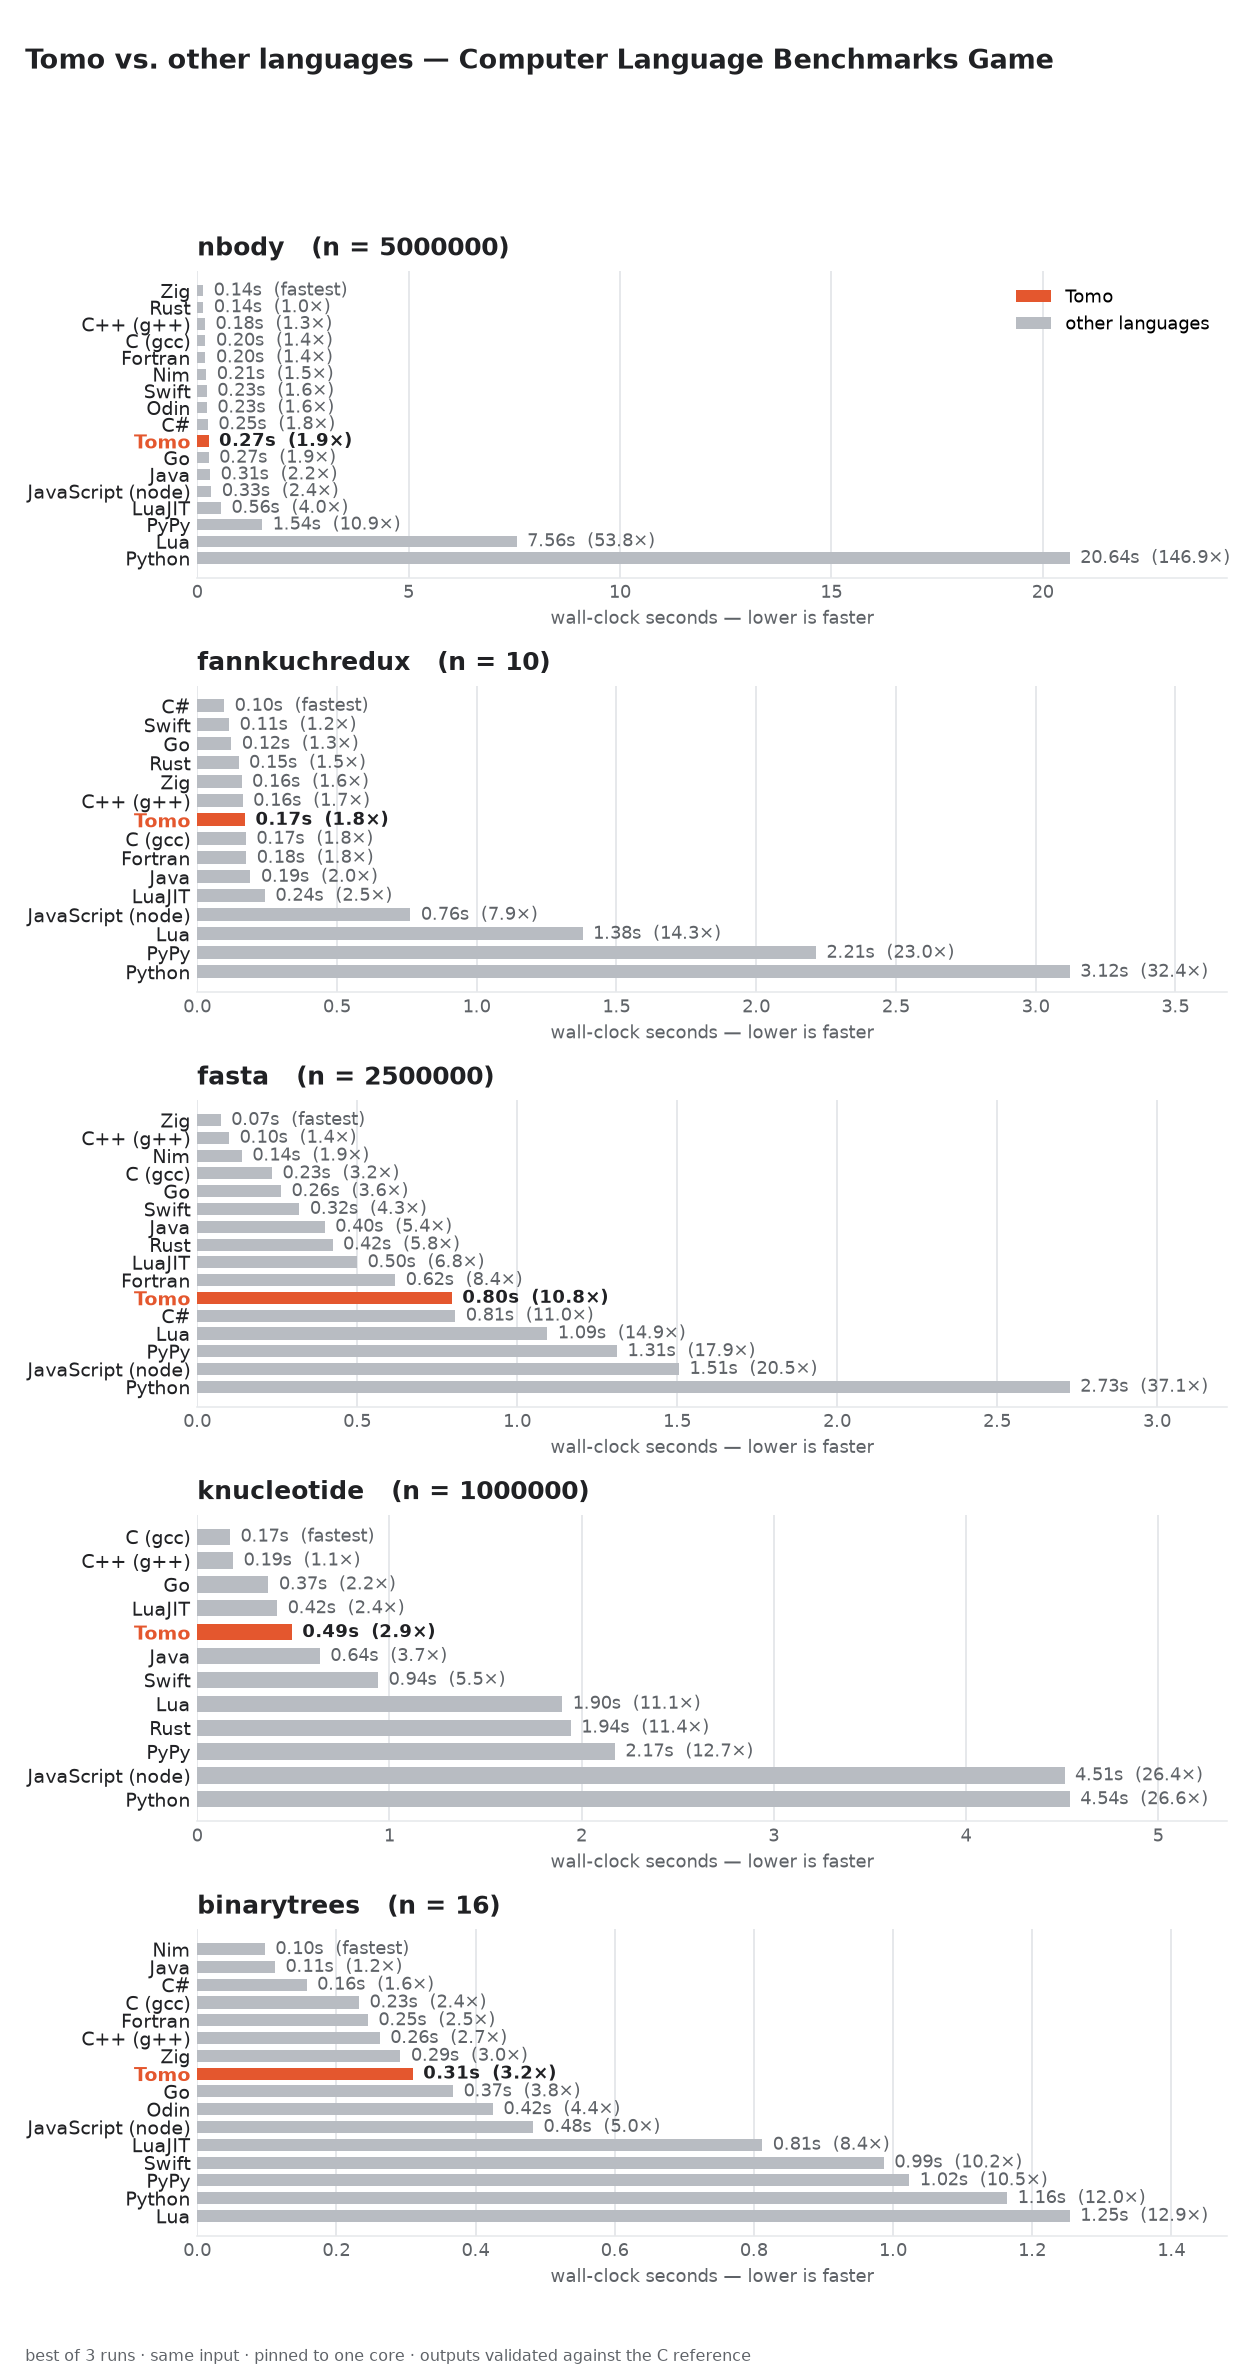
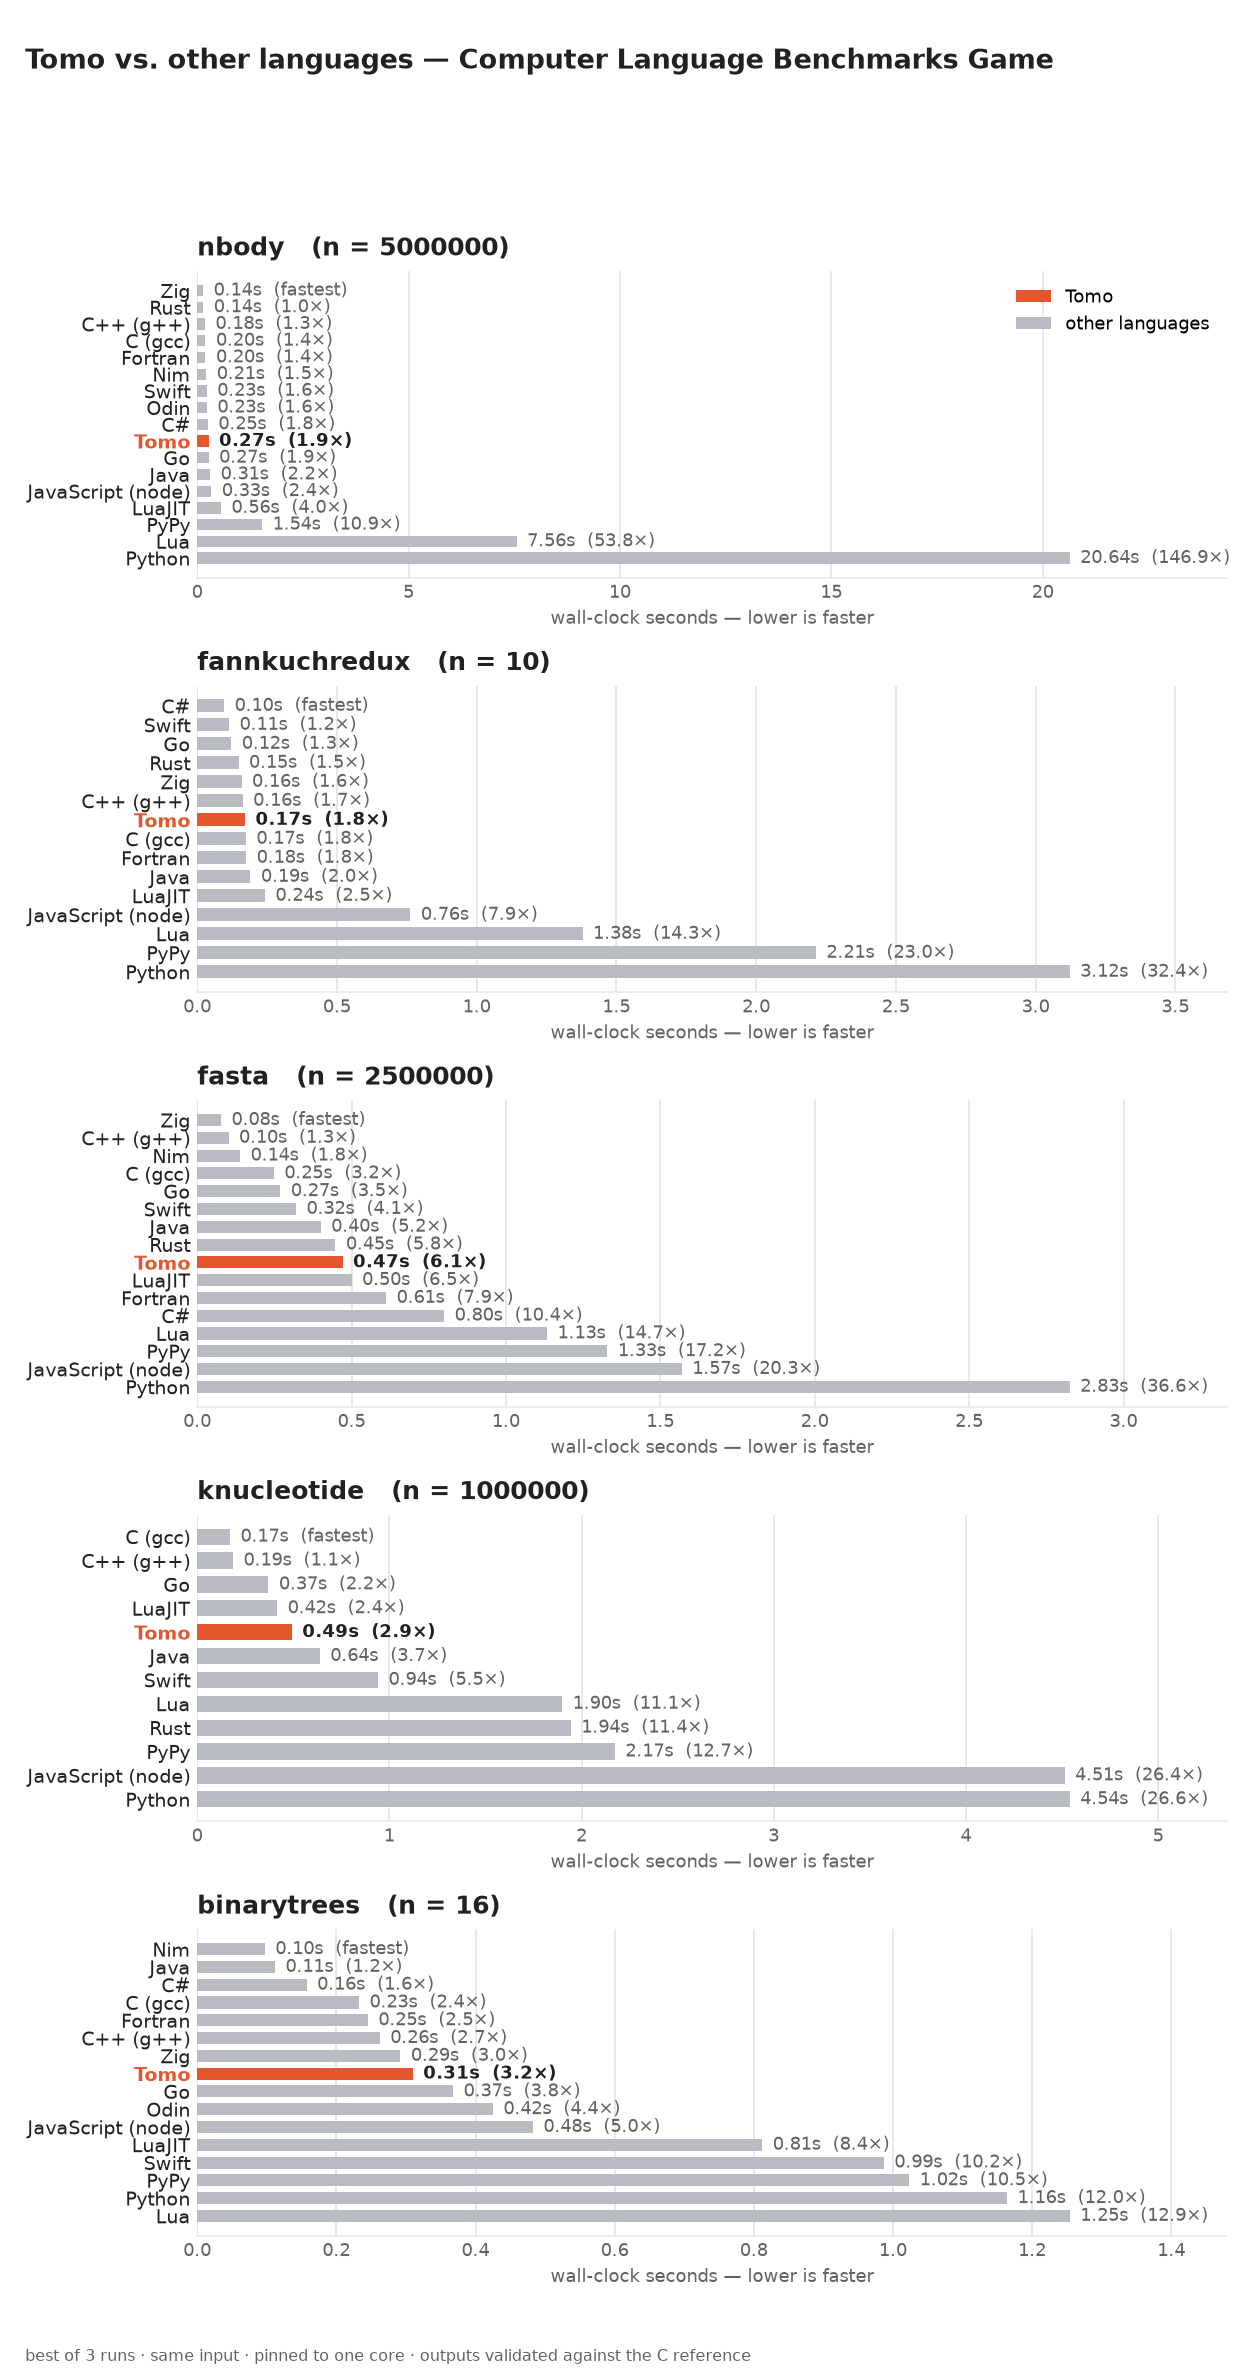
Optimize the fasta port: 0.79s -> 0.47s (~1.9x C)
Implementation-only tuning; the algorithm is unchanged and still obeys the
Benchmarks Game rules (naive LCG, no cached sequence, cumulative probabilities,
linear search — no lookup-table/scaling shortcut):

- Thread the LCG seed as a native Int64 through each random block (param in,
  return out) instead of a heap @[Int64]. Each of the ~20M draws is now a
  register update, not a bounds-checked + optional-unwrapped + CoW-guarded heap
  access behind a function call.
- Pair each cumulative probability with its output byte in a [Freq] list and
  run the linear search as `for f in freqs` (element iteration), dropping the
  per-step bounds-checked optional indexing.
- Fill output bytes into a fixed per-batch byte buffer (whole lines + newlines)
  and convert once per ~1024-line batch via Text.from_utf8, eliminating the
  per-line Text allocation and cord concatenation.

Validated byte-for-byte against the C reference. fasta is no longer a
disproportionate outlier: ~1.9x C, in line with n-body, and now ahead of
LuaJIT, Fortran, C#, and every scripting language.

Changed region(s): [[0.0929, 0.4664, 0.4643, 0.5597], [0.4952, 0.5597, 0.65, 0.5908]]

diff --git a/benchmarks/README.md b/benchmarks/README.md
@@ -26,9 +26,10 @@ ahead of Go and Java. On the hash-table-heavy **k-nucleotide** it's a strong
 0.49s — top-half of the field, ahead of Java, Rust, and all the scripting
 languages, with only C, C++, Go, and a warmed-up LuaJIT faster. **binary-trees**
 (an allocation/GC stress test) has it at 0.31s, mid-pack and ahead of Go and
-every scripting language. **fasta** is the weak spot: hand-tuned byte-level
-output gives the low-level entries a wide edge, though Tomo still beats Lua,
-Node, and Python.
+every scripting language. **fasta** is Tomo's softest benchmark but no longer an
+outlier — at 0.47s it's ~1.9× C (in line with n-body), ahead of LuaJIT,
+Fortran, C#, and every scripting language, with only the hand-tuned byte-level
+entries (Zig, C++, Nim, C, Go, Swift, Java) faster.
 
 The top of each compute chart is now crowded with fast natives — Zig, Nim, and
 Fortran routinely lead — but no garbage-collected, memory-safe language in the
